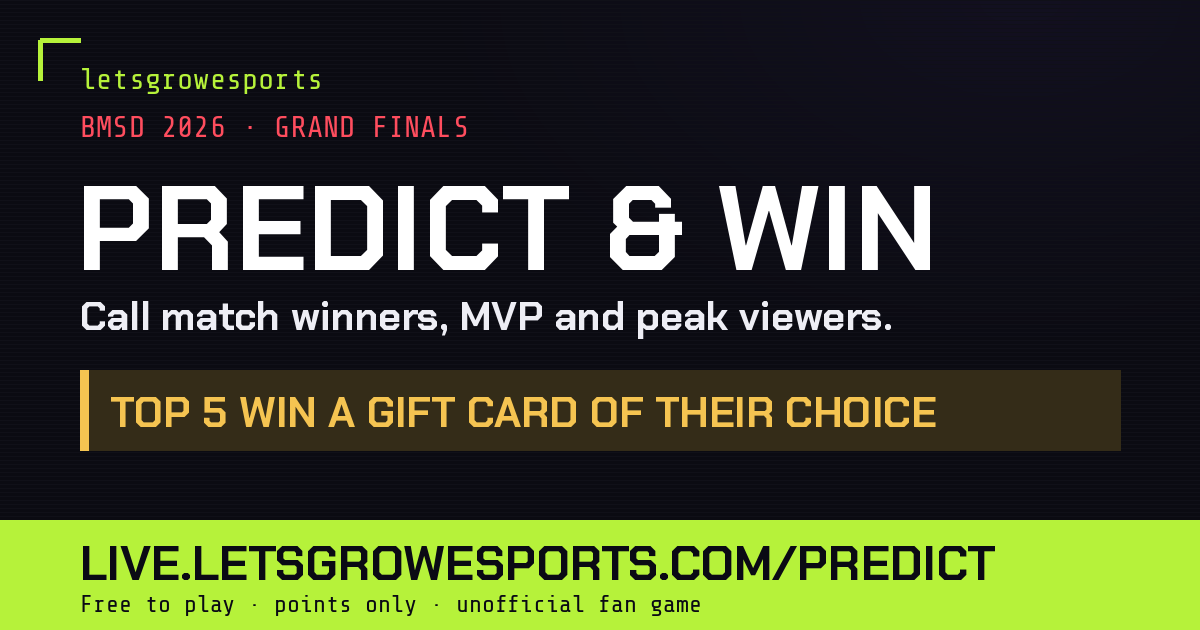
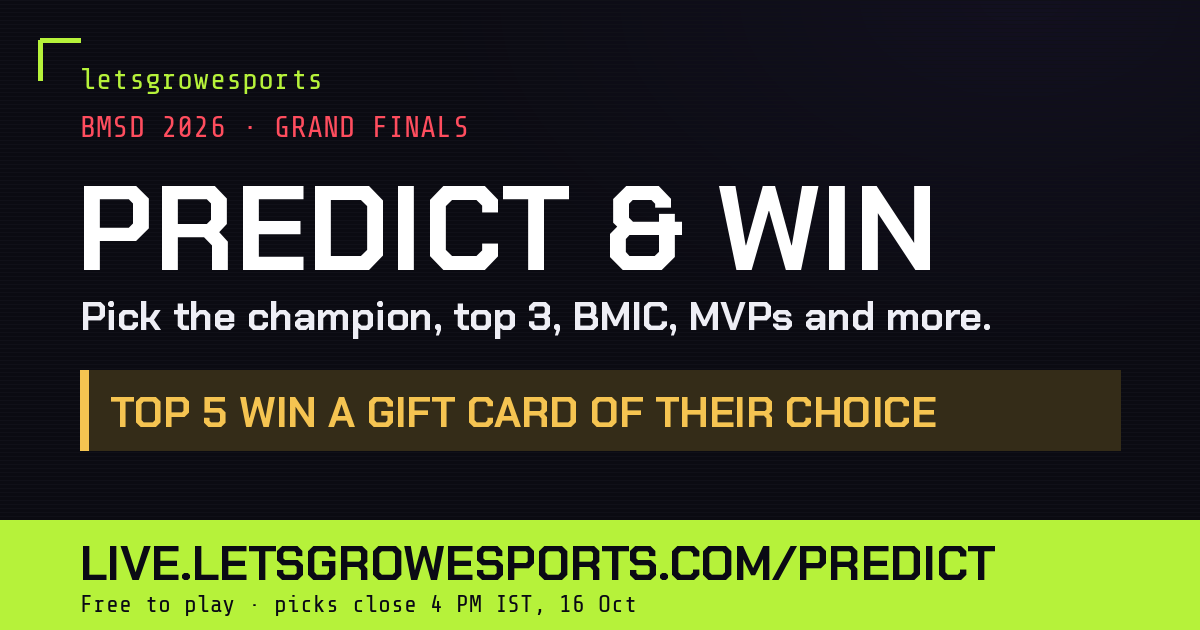
Predict & Win: crowd picks dashboard for players who submitted, leaderboard hidden until the owner turns it on, new link preview text and image
Claude-Session: https://claude.ai/code/session_01BzJY31iHji2UxXymYXT3SW

Changed region(s): [[0.0617, 0.4825, 0.8325, 0.5429], [0.2467, 0.9349, 0.5858, 0.9952]]

diff --git a/docs/previews/predict-and-win-preview.html b/docs/previews/predict-and-win-preview.html
@@ -1,12 +1,12 @@
 <!doctype html>
 <html lang="en"><head><meta charset="utf-8"><meta name="viewport" content="width=device-width, initial-scale=1">
 <title>Predict & Win | BMSD 2026 | letsgrowesports</title>
-<meta name="description" content="Free BGMI prediction game for the BMSD 2026 Grand Finals. Call match winners, MVP and peak viewers. Top 5 win a gift card.">
+<meta name="description" content="Pick the champion, top 3, BMIC qualifiers, MVPs, best IGL and the peak viewership for the BMSD 2026 Grand Finals. Free to play. Top 5 win a gift card.">
 <meta property="og:type" content="website"><meta property="og:site_name" content="letsgrowesports">
-<meta property="og:title" content="BMSD 2026 · Predict & Win"><meta property="og:description" content="Call match winners, MVP and peak viewers for the BMSD 2026 Grand Finals. Free to play. Top 5 win a gift card.">
-<meta property="og:url" content="https://live.letsgrowesports.com/predict"><meta property="og:image" content="https://live.letsgrowesports.com/predict/og.png">
+<meta property="og:title" content="BMSD 2026 · Predict & Win"><meta property="og:description" content="Pick the champion, top 3, BMIC qualifiers, MVPs, best IGL and the peak viewership for the BMSD 2026 Grand Finals. Free to play. Top 5 win a gift card.">
+<meta property="og:url" content="https://live.letsgrowesports.com/predict"><meta property="og:image" content="https://live.letsgrowesports.com/predict/og.png?v=2">
 <meta property="og:image:width" content="1200"><meta property="og:image:height" content="630">
-<meta name="twitter:card" content="summary_large_image"><meta name="twitter:title" content="BMSD 2026 · Predict & Win"><meta name="twitter:image" content="https://live.letsgrowesports.com/predict/og.png">
+<meta name="twitter:card" content="summary_large_image"><meta name="twitter:description" content="Pick the champion, top 3, BMIC qualifiers, MVPs, best IGL and the peak viewership for the BMSD 2026 Grand Finals. Free to play. Top 5 win a gift card."><meta name="twitter:title" content="BMSD 2026 · Predict & Win"><meta name="twitter:image" content="https://live.letsgrowesports.com/predict/og.png?v=2">
 <meta name="theme-color" content="#0b0b12">
 <link rel="preconnect" href="https://fonts.googleapis.com"><link rel="preconnect" href="https://fonts.gstatic.com" crossorigin>
 <link href="https://fonts.googleapis.com/css2?family=Chakra+Petch:wght@500;600;700&family=Share+Tech+Mono&display=swap" rel="stylesheet">
@@ -116,7 +116,7 @@ tr.you td{background:rgba(182,242,58,.08)}tr.pin td{border-top:2px dashed var(--
 .nmx{display:flex;align-items:center;min-width:0}.nmx>span:last-child{overflow:hidden;text-overflow:ellipsis;white-space:nowrap}
 .cbl button{display:flex;align-items:center}.how{font-size:13px;color:var(--muted);margin-top:-4px}.ch{font-size:12px;margin-bottom:2px}
 .rules ul{margin:8px 0 0;padding-left:18px}.rules li{margin:5px 0;font-size:14px;color:var(--ink)}
-.tx{display:flex;gap:8px}.qbadge{height:44px;display:block}
+.tx{display:flex;gap:8px}.cq{padding:12px 0;border-top:1px solid var(--line)}.cq:first-child{border-top:0;padding-top:0}.cqt{font:700 15px 'Chakra Petch',sans-serif;margin:4px 0 8px}.cr.mine{outline:1px solid var(--lime)}.qbadge{height:44px;display:block}
 .sbar{position:fixed;left:50%;transform:translateX(-50%);width:min(948px,calc(100% - 20px));bottom:10px;z-index:65;display:none;align-items:center;justify-content:space-between;gap:10px;padding:10px 12px;background:rgba(18,18,25,.96);border:1px solid var(--lime);box-shadow:0 8px 30px rgba(0,0,0,.6)}
 .sbar .mono{font-size:13px;color:var(--muted)}.sbar .btn[disabled]{background:var(--card2);color:var(--muted);opacity:1}.tx .inp{flex:1;min-width:0}
 @view-transition{navigation:auto}
@@ -148,7 +148,9 @@ tr.you td{background:rgba(182,242,58,.08)}tr.pin td{border-top:2px dashed var(--
  <div class="card" id="qcard"><div class="lbl">// step 2</div><h2 style="margin:4px 0 12px">Make your picks</h2>
   <div class="tabs" id="dtabs"></div><div class="qs" id="qs"></div>
   <div class="sbar" id="sbar"><span id="sbt" class="mono"></span><button class="btn" id="sbb" disabled>Submit my picks</button></div></div>
- <div class="card" id="lbCard"><div class="head"><div><div class="lbl">// leaderboard</div><h2>Top 10</h2></div><button class="btn sm" id="shareLb">Share</button></div>
+ <div class="card" id="crowdCard" style="display:none"><div class="lbl">// what everyone picked</div><h2 style="margin:4px 0 4px">Crowd picks</h2>
+  <div class="muted" style="font-size:13px;margin-bottom:10px">Updates live. The leaderboard and winners are revealed after the finals on Sun 18 Oct.</div><div id="crowd"></div></div>
+ <div class="card" id="lbCard" style="display:none"><div class="head"><div><div class="lbl">// leaderboard</div><h2>Top 10</h2></div><button class="btn sm" id="shareLb">Share</button></div>
   <div class="tabs" id="ltabs"></div>
   <table><thead><tr><th>#</th><th>Player</th><th class="num">Points</th></tr></thead><tbody id="lb"></tbody></table>
   <div class="muted" style="font-size:12px;margin-top:8px">Gold = gift card zone. Tap a name to see their picks.</div></div>
@@ -197,9 +199,8 @@ function nameHtml(p){return p.name&&p.name!==p.handle?`<b>${esc(p.name)}</b> <sp
 function renderJoin(){const c=$('joinCard');
  if(ME){const r=(ME.ranks||{}).all||{},p=ME.player;
   c.innerHTML=`<div class="me"><div class="av">${esc((p.name||p.handle).slice(0,1).toUpperCase())}</div><div class="who"><div class="lbl">// playing as</div><div class="pn">${nameHtml(p)}</div></div>
-   <div class="mono rkbox"><div style="font-size:22px;color:var(--lime)">${r.pts?'#'+r.rank:'-'}</div><div class="muted" style="font-size:12px">${r.pts||0} PTS · ${Object.keys(ME.picks||{}).length} PICKS</div></div>
-   <button class="btn sm" id="shareMe">Share my rank</button></div>`;
-  $('shareMe').onclick=()=>share('me');return}
+   ${B&&B.leaderboard?`<div class="mono rkbox"><div style="font-size:22px;color:var(--lime)">${r.pts?'#'+r.rank:'-'}</div><div class="muted" style="font-size:12px">${r.pts||0} PTS</div></div><button class="btn sm" id="shareMe">Share my rank</button>`:`<div class="mono rkbox" style="font-size:13px;color:${Object.keys(ME.picks||{}).length?'var(--lime)':'var(--muted)'}">${Object.keys(ME.picks||{}).length?'✓ PICKS SUBMITTED':'NOT SUBMITTED YET'}</div>`}</div>`;
+  const sm=$('shareMe');if(sm)sm.onclick=()=>share('me');renderCrowd();return}
  c.innerHTML=`<div class="lbl">// step 1</div><h2 style="margin-top:4px">Enter your Instagram ID</h2>
   <div class="muted" style="font-size:13px;margin-top:4px">If you finish in the top 5, we'll DM you on Instagram. No password needed.<br><b style="color:var(--ink)">Answer every question, then press Submit. You can't change picks after submitting.</b></div>
   <div id="jf"><label class="field"><span>INSTAGRAM ID</span><div class="at"><i>@</i><input class="inp" id="jh" maxlength="80" placeholder="yourhandle" autocapitalize="none" autocorrect="off" spellcheck="false" inputmode="email" required></div></label>
@@ -286,9 +287,18 @@ async function submitAll(){if(!ME){toast('Enter your Instagram ID first (step 1)
  const oq=openQs();if(oq.some(q=>!isDone(q,draft[q.id]))){const f=oq.find(q=>!isDone(q,draft[q.id]));toast('Answer every question first');const el=$('qs').querySelector(`.q[data-id="${f.id}"]`);if(el)el.scrollIntoView({behavior:'smooth',block:'center'});return}
  if(!confirmSubmit())return;const b=$('sbb');b.disabled=true;b.textContent='Submitting...';
  const picks={};oq.forEach(q=>picks[q.id]=draft[q.id]);
- try{await api('submit',{picks});oq.forEach(q=>{ME.picks[q.id]=picks[q.id];delete draft[q.id]});saveDraft();toast('Submitted. Good luck!');renderJoin();await loadBoard();renderQs()}
+ try{await api('submit',{picks});oq.forEach(q=>{ME.picks[q.id]=picks[q.id];delete draft[q.id]});saveDraft();toast('Submitted. Good luck!');await loadMe();await loadBoard();renderQs();renderCrowd();$('crowdCard').scrollIntoView({behavior:'smooth'})}
  catch(e){toast(e.message);await loadMe();await loadBoard()}finally{sbar()}}
 function confirmSubmit(){if(DEMO)return true;try{return window.confirm('Submit your picks? You can\'t change them after.')}catch(e){return true}}
+// ---------- crowd picks (only for players who submitted) ----------
+let crowdSig='';
+function renderCrowd(){const card=$('crowdCard');if(!card||!B)return;const has=ME&&Object.keys(ME.picks||{}).length;card.style.display=has?'':'none';if(!has)return;
+ const sig=JSON.stringify(ME.crowd||{})+JSON.stringify(ME.picks);if(sig===crowdSig)return;crowdSig=sig;
+ $('crowd').innerHTML=B.questions.filter(q=>ME.picks[q.id]!==undefined).map(q=>{const pc=(ME.crowd||{})[q.id]||{},my=ME.picks[q.id],mine=Array.isArray(my)?my:[my];
+  const ent=Object.entries(pc).sort((a,b)=>b[1]-a[1]).slice(0,q.kind==='multi'?Math.max(q.pick,6):5);
+  const tag=q.tag==='BMIC'&&TLOGO.BMIC26?`<img class="qbadge" style="height:30px" src="${TLOGO.BMIC26}" alt="BMIC">`:esc(q.tag);
+  return `<div class="cq"><div class="qt"><span class="tag">${tag}</span></div><div class="cqt">${esc(q.title)}</div>${ent.length?`<div class="crowd">${ent.map(([o,n])=>`<div class="cr ${mine.includes(o)||mine.map(tn0).includes(tn0(o))?'mine':''}"><div class="fill" style="width:${n}%"></div><span class="nmx">${tl(o)}<span>${esc(o)}</span></span><span class="pc">${n}%</span></div>`).join('')}</div>`:'<div class="muted" style="font-size:13px">Results show once 20 players have submitted.</div>'}</div>`}).join('')}
+const tn0=x=>String(x||'').toLowerCase().replace(/[^a-z0-9]/g,'');
 // ---------- leaderboard ----------
 function lbTabs(){const ds=[...new Set(B.questions.filter(q=>q.day).map(q=>String(q.day)))].sort();const t=[['all','Overall'],...ds.map(d=>[d,'Day '+d])];$('ltabs').style.display=t.length>2?'':'none';
  $('ltabs').innerHTML=t.map(([k,l])=>`<button data-k="${k}" class="${k===lbTab?'on':''}">${l}</button>`).join('');
@@ -352,12 +362,12 @@ function header(){
  const nx=B.questions.filter(q=>!q.closed&&!q.void&&q.close_ts>nowS()).sort((a,b)=>a.close_ts-b.close_ts)[0];
  $('nlt').textContent=nx?`${istT(nx.close_ts)} IST · ${left(nx.close_ts-nowS())}`:'ALL LOCKED';
 }
-let lbSig='';async function loadBoard(){try{B=await api('board')}catch(e){return}header();dayTabs();renderQs();sbar();const sg=JSON.stringify(B.boards)+lbTab;if(sg!==lbSig){lbSig=sg;lbTabs();renderLb()}}
+let lbSig='';async function loadBoard(){try{B=await api('board')}catch(e){return}header();dayTabs();renderQs();sbar();$('lbCard').style.display=B.leaderboard?'':'none';const sg=JSON.stringify(B.boards)+lbTab;if(sg!==lbSig){lbSig=sg;lbTabs();renderLb()}}
 function tick(){if(!B)return;B.questions.forEach(q=>{if(!q.closed&&nowS()>=q.close_ts){q.closed=true;if(openCb===q.id)openCb=null;updCard(q.id)}});
  document.querySelectorAll('[data-cl]').forEach(el=>{const q=B.questions.find(x=>x.id===+el.dataset.cl);if(q)el.textContent=closeTxt(q)[0]});header()}
 setTimeout(()=>{const p=$('pwin');if(p)p.remove()},1100);
 (async()=>{if(DEMO)demoInit();await loadBoard();await loadMe();renderLb();setInterval(tick,15000);
- setInterval(()=>{if(!document.hidden&&!openCb)loadBoard()},DEMO?4000:20000);setInterval(()=>{if(!document.hidden&&TOKEN)loadMe().then(renderLb)},60000)})();
+ setInterval(()=>{if(!document.hidden&&!openCb)loadBoard()},DEMO?4000:20000);setInterval(()=>{if(!document.hidden&&TOKEN)loadMe().then(renderLb)},DEMO?5000:20000)})();
 
 // ---------- preview engine (DEMO only: everything below runs in the browser, nothing is saved) ----------
 function demoInit(){const t0=nowS(),d=SEED.days,cl=k=>Date.parse(d[k]+'T'+SEED.close+':00+05:30')/1000,T=SEED.teams;
@@ -392,10 +402,10 @@ function dRank(b){const S={};DB.qs.forEach(q=>S[q.id]=dStats(q));
  const rows=DB.players.filter(p=>!p.hidden).map(p=>{let pts=b==='all'||b===1?(DB.bonus[p.id]||0):0,c=pts?1:0;DB.qs.forEach(q=>{if(b!=='all'&&q.day!==b)return;const x=dPts(q,S[q.id],DB.picks[p.id+':'+q.id]);if(x){pts+=x;c++}});return{id:p.id,handle:p.handle,name:p.name,pts,correct:c,created:p.created}})
   .sort((a,b)=>b.pts-a.pts||b.correct-a.correct||a.created-b.created);rows.forEach((r,i)=>r.rank=i+1);return rows}
 async function demoApi(path,body){await new Promise(r=>setTimeout(r,100));const err=(m,c)=>{throw Object.assign(new Error(m),{code:c||400})};
- if(path==='board'){return{now:nowS(),prize:SEED.prize,days:SEED.days,
+ if(path==='board'){return{now:nowS(),leaderboard:false,prize:SEED.prize,days:SEED.days,
   questions:DB.qs.map(q=>{const s=dStats(q),cl=dClosed(q);let counts=s.inc;if(q.kind==='text'){counts={};if(cl)Object.entries(s.inc).sort((a,b)=>b[1]-a[1]).slice(0,5).forEach(([k,v])=>counts[s.names[k]]=v)}
-   const pct={};if(s.n>=20)for(const k in counts)pct[k]=Math.round(100*counts[k]/s.n);
-   return{id:q.id,kind:q.kind,tag:q.tag,title:q.title,day:q.day,style:q.style,options:q.options,close_ts:q.close_ts,closed:cl,void:q.void,answer:q.answer,pick:q.pick,ranked:!!q.ranked,pct,picked:s.n>=20,worth:dBest(q,s)}}),
+   const pct={};if(cl&&s.n>=20)for(const k in counts)pct[k]=Math.round(100*counts[k]/s.n);
+   return{id:q.id,kind:q.kind,tag:q.tag,title:q.title,day:q.day,style:q.style,options:q.options,close_ts:q.close_ts,closed:cl,void:q.void,answer:q.answer,pick:q.pick,ranked:!!q.ranked,pct,picked:cl&&s.n>=20,worth:dBest(q,s)}}),
   boards:Object.fromEntries(['all','1','2','3'].map(b=>[b,dRank(b==='all'?'all':+b).filter(r=>r.pts>0).slice(0,10).map(({rank,handle,name,pts,correct})=>({rank,handle,name,pts,correct}))]))}}
  if(path==='join'){let h=(body.handle||'').trim();const m=h.match(/instagram\.com\/([^/?#\s]+)/i);if(m)h=m[1];h=h.replace(/^@/,'').toLowerCase();
   if(!/^[a-z0-9._]{1,30}$/.test(h))err('Enter a valid Instagram ID (letters, numbers, . and _ only).');
@@ -404,7 +414,8 @@ async function demoApi(path,body){await new Promise(r=>setTimeout(r,100));const 
   const p={id:DB.players.length+1,handle:h,name:(body.name||'').trim().slice(0,32),created:nowS(),hidden:false};DB.players.push(p);DB.me=p.id;return{token:'demo',player:p}}
  if(path==='me'){if(!DB.me)err('Not joined',401);const p=DB.players[DB.me-1],picks={},pts={};DB.qs.forEach(q=>{const v=DB.picks[p.id+':'+q.id];if(v!==undefined){picks[q.id]=v;if(q.answer)pts[q.id]=dPts(q,dStats(q),v)}});
   const ranks={};['all','1','2','3'].forEach(b=>{const r=dRank(b==='all'?'all':+b).find(r=>r.id===p.id);ranks[b]={rank:r.rank,pts:r.pts,correct:r.correct}});
-  return{player:{handle:p.handle,name:p.name},picks,pts,ranks}}
+  const crowd={};DB.qs.forEach(q=>{if(picks[q.id]===undefined)return;const st=dStats(q),c={};if(st.n>=20){const src=q.kind==='text'?Object.fromEntries(Object.entries(st.inc).map(([k,v])=>[st.names[k],v])):st.inc;for(const k in src)c[k]=Math.round(100*src[k]/st.n)}crowd[q.id]=c});
+  return{player:{handle:p.handle,name:p.name},picks,pts,ranks:{},crowd}}
  if(path==='pick'){if(!DB.me)err('Join first.',401);const q=DB.qs.find(q=>q.id===body.qid);if(!q)err('No such question',404);if(q.void)err('This question was cancelled.',409);if(dClosed(q))err('Picks for this question are closed.',409);if(DB.picks[DB.me+':'+q.id]!==undefined)err("You've already made this pick. Picks can't be changed.",409);
   if(q.kind==='multi'&&(!Array.isArray(body.option)||new Set(body.option).size!==q.pick))err(`Pick exactly ${q.pick} teams.`);
   DB.picks[DB.me+':'+q.id]=body.option;return{ok:true}}

diff --git a/core/predictpage.py b/core/predictpage.py
@@ -143,7 +143,7 @@ tr.you td{background:rgba(182,242,58,.08)}tr.pin td{border-top:2px dashed var(--
 .nmx{display:flex;align-items:center;min-width:0}.nmx>span:last-child{overflow:hidden;text-overflow:ellipsis;white-space:nowrap}
 .cbl button{display:flex;align-items:center}.how{font-size:13px;color:var(--muted);margin-top:-4px}.ch{font-size:12px;margin-bottom:2px}
 .rules ul{margin:8px 0 0;padding-left:18px}.rules li{margin:5px 0;font-size:14px;color:var(--ink)}
-.tx{display:flex;gap:8px}.qbadge{height:44px;display:block}
+.tx{display:flex;gap:8px}.cq{padding:12px 0;border-top:1px solid var(--line)}.cq:first-child{border-top:0;padding-top:0}.cqt{font:700 15px 'Chakra Petch',sans-serif;margin:4px 0 8px}.cr.mine{outline:1px solid var(--lime)}.qbadge{height:44px;display:block}
 .sbar{position:fixed;left:50%;transform:translateX(-50%);width:min(948px,calc(100% - 20px));bottom:10px;z-index:65;display:none;align-items:center;justify-content:space-between;gap:10px;padding:10px 12px;background:rgba(18,18,25,.96);border:1px solid var(--lime);box-shadow:0 8px 30px rgba(0,0,0,.6)}
 .sbar .mono{font-size:13px;color:var(--muted)}.sbar .btn[disabled]{background:var(--card2);color:var(--muted);opacity:1}.tx .inp{flex:1;min-width:0}
 @view-transition{navigation:auto}
@@ -163,12 +163,12 @@ tr.you td{background:rgba(182,242,58,.08)}tr.pin td{border-top:2px dashed var(--
 PAGE = r"""<!doctype html>
 <html lang="en"><head><meta charset="utf-8"><meta name="viewport" content="width=device-width, initial-scale=1">
 <title>Predict & Win | BMSD 2026 | letsgrowesports</title>
-<meta name="description" content="Free BGMI prediction game for the BMSD 2026 Grand Finals. Call match winners, MVP and peak viewers. Top 5 win a gift card.">
+<meta name="description" content="Pick the champion, top 3, BMIC qualifiers, MVPs, best IGL and the peak viewership for the BMSD 2026 Grand Finals. Free to play. Top 5 win a gift card.">
 <meta property="og:type" content="website"><meta property="og:site_name" content="letsgrowesports">
-<meta property="og:title" content="BMSD 2026 · Predict & Win"><meta property="og:description" content="Call match winners, MVP and peak viewers for the BMSD 2026 Grand Finals. Free to play. Top 5 win a gift card.">
-<meta property="og:url" content="__PUBLIC__/predict"><meta property="og:image" content="__PUBLIC__/predict/og.png">
+<meta property="og:title" content="BMSD 2026 · Predict & Win"><meta property="og:description" content="Pick the champion, top 3, BMIC qualifiers, MVPs, best IGL and the peak viewership for the BMSD 2026 Grand Finals. Free to play. Top 5 win a gift card.">
+<meta property="og:url" content="__PUBLIC__/predict"><meta property="og:image" content="__PUBLIC__/predict/og.png?v=2">
 <meta property="og:image:width" content="1200"><meta property="og:image:height" content="630">
-<meta name="twitter:card" content="summary_large_image"><meta name="twitter:title" content="BMSD 2026 · Predict & Win"><meta name="twitter:image" content="__PUBLIC__/predict/og.png">
+<meta name="twitter:card" content="summary_large_image"><meta name="twitter:description" content="Pick the champion, top 3, BMIC qualifiers, MVPs, best IGL and the peak viewership for the BMSD 2026 Grand Finals. Free to play. Top 5 win a gift card."><meta name="twitter:title" content="BMSD 2026 · Predict & Win"><meta name="twitter:image" content="__PUBLIC__/predict/og.png?v=2">
 <meta name="theme-color" content="#0b0b12">
 <link rel="preconnect" href="https://fonts.googleapis.com"><link rel="preconnect" href="https://fonts.gstatic.com" crossorigin>
 <link href="https://fonts.googleapis.com/css2?family=Chakra+Petch:wght@500;600;700&family=Share+Tech+Mono&display=swap" rel="stylesheet">
@@ -189,7 +189,9 @@ PAGE = r"""<!doctype html>
  <div class="card" id="qcard"><div class="lbl">// step 2</div><h2 style="margin:4px 0 12px">Make your picks</h2>
   <div class="tabs" id="dtabs"></div><div class="qs" id="qs"></div>
   <div class="sbar" id="sbar"><span id="sbt" class="mono"></span><button class="btn" id="sbb" disabled>Submit my picks</button></div></div>
- <div class="card" id="lbCard"><div class="head"><div><div class="lbl">// leaderboard</div><h2>Top 10</h2></div><button class="btn sm" id="shareLb">Share</button></div>
+ <div class="card" id="crowdCard" style="display:none"><div class="lbl">// what everyone picked</div><h2 style="margin:4px 0 4px">Crowd picks</h2>
+  <div class="muted" style="font-size:13px;margin-bottom:10px">Updates live. The leaderboard and winners are revealed after the finals on Sun 18 Oct.</div><div id="crowd"></div></div>
+ <div class="card" id="lbCard" style="display:none"><div class="head"><div><div class="lbl">// leaderboard</div><h2>Top 10</h2></div><button class="btn sm" id="shareLb">Share</button></div>
   <div class="tabs" id="ltabs"></div>
   <table><thead><tr><th>#</th><th>Player</th><th class="num">Points</th></tr></thead><tbody id="lb"></tbody></table>
   <div class="muted" style="font-size:12px;margin-top:8px">Gold = gift card zone. Tap a name to see their picks.</div></div>
@@ -238,9 +240,8 @@ function nameHtml(p){return p.name&&p.name!==p.handle?`<b>${esc(p.name)}</b> <sp
 function renderJoin(){const c=$('joinCard');
  if(ME){const r=(ME.ranks||{}).all||{},p=ME.player;
   c.innerHTML=`<div class="me"><div class="av">${esc((p.name||p.handle).slice(0,1).toUpperCase())}</div><div class="who"><div class="lbl">// playing as</div><div class="pn">${nameHtml(p)}</div></div>
-   <div class="mono rkbox"><div style="font-size:22px;color:var(--lime)">${r.pts?'#'+r.rank:'-'}</div><div class="muted" style="font-size:12px">${r.pts||0} PTS · ${Object.keys(ME.picks||{}).length} PICKS</div></div>
-   <button class="btn sm" id="shareMe">Share my rank</button></div>`;
-  $('shareMe').onclick=()=>share('me');return}
+   ${B&&B.leaderboard?`<div class="mono rkbox"><div style="font-size:22px;color:var(--lime)">${r.pts?'#'+r.rank:'-'}</div><div class="muted" style="font-size:12px">${r.pts||0} PTS</div></div><button class="btn sm" id="shareMe">Share my rank</button>`:`<div class="mono rkbox" style="font-size:13px;color:${Object.keys(ME.picks||{}).length?'var(--lime)':'var(--muted)'}">${Object.keys(ME.picks||{}).length?'✓ PICKS SUBMITTED':'NOT SUBMITTED YET'}</div>`}</div>`;
+  const sm=$('shareMe');if(sm)sm.onclick=()=>share('me');renderCrowd();return}
  c.innerHTML=`<div class="lbl">// step 1</div><h2 style="margin-top:4px">Enter your Instagram ID</h2>
   <div class="muted" style="font-size:13px;margin-top:4px">If you finish in the top 5, we'll DM you on Instagram. No password needed.<br><b style="color:var(--ink)">Answer every question, then press Submit. You can't change picks after submitting.</b></div>
   <div id="jf"><label class="field"><span>INSTAGRAM ID</span><div class="at"><i>@</i><input class="inp" id="jh" maxlength="80" placeholder="yourhandle" autocapitalize="none" autocorrect="off" spellcheck="false" inputmode="email" required></div></label>
@@ -327,9 +328,18 @@ async function submitAll(){if(!ME){toast('Enter your Instagram ID first (step 1)
  const oq=openQs();if(oq.some(q=>!isDone(q,draft[q.id]))){const f=oq.find(q=>!isDone(q,draft[q.id]));toast('Answer every question first');const el=$('qs').querySelector(`.q[data-id="${f.id}"]`);if(el)el.scrollIntoView({behavior:'smooth',block:'center'});return}
  if(!confirmSubmit())return;const b=$('sbb');b.disabled=true;b.textContent='Submitting...';
  const picks={};oq.forEach(q=>picks[q.id]=draft[q.id]);
- try{await api('submit',{picks});oq.forEach(q=>{ME.picks[q.id]=picks[q.id];delete draft[q.id]});saveDraft();toast('Submitted. Good luck!');renderJoin();await loadBoard();renderQs()}
+ try{await api('submit',{picks});oq.forEach(q=>{ME.picks[q.id]=picks[q.id];delete draft[q.id]});saveDraft();toast('Submitted. Good luck!');await loadMe();await loadBoard();renderQs();renderCrowd();$('crowdCard').scrollIntoView({behavior:'smooth'})}
  catch(e){toast(e.message);await loadMe();await loadBoard()}finally{sbar()}}
 function confirmSubmit(){if(DEMO)return true;try{return window.confirm('Submit your picks? You can\'t change them after.')}catch(e){return true}}
+// ---------- crowd picks (only for players who submitted) ----------
+let crowdSig='';
+function renderCrowd(){const card=$('crowdCard');if(!card||!B)return;const has=ME&&Object.keys(ME.picks||{}).length;card.style.display=has?'':'none';if(!has)return;
+ const sig=JSON.stringify(ME.crowd||{})+JSON.stringify(ME.picks);if(sig===crowdSig)return;crowdSig=sig;
+ $('crowd').innerHTML=B.questions.filter(q=>ME.picks[q.id]!==undefined).map(q=>{const pc=(ME.crowd||{})[q.id]||{},my=ME.picks[q.id],mine=Array.isArray(my)?my:[my];
+  const ent=Object.entries(pc).sort((a,b)=>b[1]-a[1]).slice(0,q.kind==='multi'?Math.max(q.pick,6):5);
+  const tag=q.tag==='BMIC'&&TLOGO.BMIC26?`<img class="qbadge" style="height:30px" src="${TLOGO.BMIC26}" alt="BMIC">`:esc(q.tag);
+  return `<div class="cq"><div class="qt"><span class="tag">${tag}</span></div><div class="cqt">${esc(q.title)}</div>${ent.length?`<div class="crowd">${ent.map(([o,n])=>`<div class="cr ${mine.includes(o)||mine.map(tn0).includes(tn0(o))?'mine':''}"><div class="fill" style="width:${n}%"></div><span class="nmx">${tl(o)}<span>${esc(o)}</span></span><span class="pc">${n}%</span></div>`).join('')}</div>`:'<div class="muted" style="font-size:13px">Results show once 20 players have submitted.</div>'}</div>`}).join('')}
+const tn0=x=>String(x||'').toLowerCase().replace(/[^a-z0-9]/g,'');
 // ---------- leaderboard ----------
 function lbTabs(){const ds=[...new Set(B.questions.filter(q=>q.day).map(q=>String(q.day)))].sort();const t=[['all','Overall'],...ds.map(d=>[d,'Day '+d])];$('ltabs').style.display=t.length>2?'':'none';
  $('ltabs').innerHTML=t.map(([k,l])=>`<button data-k="${k}" class="${k===lbTab?'on':''}">${l}</button>`).join('');
@@ -393,12 +403,12 @@ function header(){
  const nx=B.questions.filter(q=>!q.closed&&!q.void&&q.close_ts>nowS()).sort((a,b)=>a.close_ts-b.close_ts)[0];
  $('nlt').textContent=nx?`${istT(nx.close_ts)} IST · ${left(nx.close_ts-nowS())}`:'ALL LOCKED';
 }
-let lbSig='';async function loadBoard(){try{B=await api('board')}catch(e){return}header();dayTabs();renderQs();sbar();const sg=JSON.stringify(B.boards)+lbTab;if(sg!==lbSig){lbSig=sg;lbTabs();renderLb()}}
+let lbSig='';async function loadBoard(){try{B=await api('board')}catch(e){return}header();dayTabs();renderQs();sbar();$('lbCard').style.display=B.leaderboard?'':'none';const sg=JSON.stringify(B.boards)+lbTab;if(sg!==lbSig){lbSig=sg;lbTabs();renderLb()}}
 function tick(){if(!B)return;B.questions.forEach(q=>{if(!q.closed&&nowS()>=q.close_ts){q.closed=true;if(openCb===q.id)openCb=null;updCard(q.id)}});
  document.querySelectorAll('[data-cl]').forEach(el=>{const q=B.questions.find(x=>x.id===+el.dataset.cl);if(q)el.textContent=closeTxt(q)[0]});header()}
 setTimeout(()=>{const p=$('pwin');if(p)p.remove()},1100);
 (async()=>{if(DEMO)demoInit();await loadBoard();await loadMe();renderLb();setInterval(tick,15000);
- setInterval(()=>{if(!document.hidden&&!openCb)loadBoard()},DEMO?4000:20000);setInterval(()=>{if(!document.hidden&&TOKEN)loadMe().then(renderLb)},60000)})();
+ setInterval(()=>{if(!document.hidden&&!openCb)loadBoard()},DEMO?4000:20000);setInterval(()=>{if(!document.hidden&&TOKEN)loadMe().then(renderLb)},DEMO?5000:20000)})();
 
 // ---------- preview engine (DEMO only: everything below runs in the browser, nothing is saved) ----------
 function demoInit(){const t0=nowS(),d=SEED.days,cl=k=>Date.parse(d[k]+'T'+SEED.close+':00+05:30')/1000,T=SEED.teams;
@@ -433,10 +443,10 @@ function dRank(b){const S={};DB.qs.forEach(q=>S[q.id]=dStats(q));
  const rows=DB.players.filter(p=>!p.hidden).map(p=>{let pts=b==='all'||b===1?(DB.bonus[p.id]||0):0,c=pts?1:0;DB.qs.forEach(q=>{if(b!=='all'&&q.day!==b)return;const x=dPts(q,S[q.id],DB.picks[p.id+':'+q.id]);if(x){pts+=x;c++}});return{id:p.id,handle:p.handle,name:p.name,pts,correct:c,created:p.created}})
   .sort((a,b)=>b.pts-a.pts||b.correct-a.correct||a.created-b.created);rows.forEach((r,i)=>r.rank=i+1);return rows}
 async function demoApi(path,body){await new Promise(r=>setTimeout(r,100));const err=(m,c)=>{throw Object.assign(new Error(m),{code:c||400})};
- if(path==='board'){return{now:nowS(),prize:SEED.prize,days:SEED.days,
+ if(path==='board'){return{now:nowS(),leaderboard:false,prize:SEED.prize,days:SEED.days,
   questions:DB.qs.map(q=>{const s=dStats(q),cl=dClosed(q);let counts=s.inc;if(q.kind==='text'){counts={};if(cl)Object.entries(s.inc).sort((a,b)=>b[1]-a[1]).slice(0,5).forEach(([k,v])=>counts[s.names[k]]=v)}
-   const pct={};if(s.n>=20)for(const k in counts)pct[k]=Math.round(100*counts[k]/s.n);
-   return{id:q.id,kind:q.kind,tag:q.tag,title:q.title,day:q.day,style:q.style,options:q.options,close_ts:q.close_ts,closed:cl,void:q.void,answer:q.answer,pick:q.pick,ranked:!!q.ranked,pct,picked:s.n>=20,worth:dBest(q,s)}}),
+   const pct={};if(cl&&s.n>=20)for(const k in counts)pct[k]=Math.round(100*counts[k]/s.n);
+   return{id:q.id,kind:q.kind,tag:q.tag,title:q.title,day:q.day,style:q.style,options:q.options,close_ts:q.close_ts,closed:cl,void:q.void,answer:q.answer,pick:q.pick,ranked:!!q.ranked,pct,picked:cl&&s.n>=20,worth:dBest(q,s)}}),
   boards:Object.fromEntries(['all','1','2','3'].map(b=>[b,dRank(b==='all'?'all':+b).filter(r=>r.pts>0).slice(0,10).map(({rank,handle,name,pts,correct})=>({rank,handle,name,pts,correct}))]))}}
  if(path==='join'){let h=(body.handle||'').trim();const m=h.match(/instagram\.com\/([^/?#\s]+)/i);if(m)h=m[1];h=h.replace(/^@/,'').toLowerCase();
   if(!/^[a-z0-9._]{1,30}$/.test(h))err('Enter a valid Instagram ID (letters, numbers, . and _ only).');
@@ -445,7 +455,8 @@ async function demoApi(path,body){await new Promise(r=>setTimeout(r,100));const 
   const p={id:DB.players.length+1,handle:h,name:(body.name||'').trim().slice(0,32),created:nowS(),hidden:false};DB.players.push(p);DB.me=p.id;return{token:'demo',player:p}}
  if(path==='me'){if(!DB.me)err('Not joined',401);const p=DB.players[DB.me-1],picks={},pts={};DB.qs.forEach(q=>{const v=DB.picks[p.id+':'+q.id];if(v!==undefined){picks[q.id]=v;if(q.answer)pts[q.id]=dPts(q,dStats(q),v)}});
   const ranks={};['all','1','2','3'].forEach(b=>{const r=dRank(b==='all'?'all':+b).find(r=>r.id===p.id);ranks[b]={rank:r.rank,pts:r.pts,correct:r.correct}});
-  return{player:{handle:p.handle,name:p.name},picks,pts,ranks}}
+  const crowd={};DB.qs.forEach(q=>{if(picks[q.id]===undefined)return;const st=dStats(q),c={};if(st.n>=20){const src=q.kind==='text'?Object.fromEntries(Object.entries(st.inc).map(([k,v])=>[st.names[k],v])):st.inc;for(const k in src)c[k]=Math.round(100*src[k]/st.n)}crowd[q.id]=c});
+  return{player:{handle:p.handle,name:p.name},picks,pts,ranks:{},crowd}}
  if(path==='pick'){if(!DB.me)err('Join first.',401);const q=DB.qs.find(q=>q.id===body.qid);if(!q)err('No such question',404);if(q.void)err('This question was cancelled.',409);if(dClosed(q))err('Picks for this question are closed.',409);if(DB.picks[DB.me+':'+q.id]!==undefined)err("You've already made this pick. Picks can't be changed.",409);
   if(q.kind==='multi'&&(!Array.isArray(body.option)||new Set(body.option).size!==q.pick))err(`Pick exactly ${q.pick} teams.`);
   DB.picks[DB.me+':'+q.id]=body.option;return{ok:true}}
@@ -496,6 +507,7 @@ td{font-size:13px;vertical-align:top}.cnt{font:11px "Share Tech Mono",monospace;
   <div class="row2"><label class="field"><span>DAY 1</span><input class="inp" id="sD1" type="date"></label><label class="field"><span>DAY 2</span><input class="inp" id="sD2" type="date"></label><label class="field"><span>DAY 3</span><input class="inp" id="sD3" type="date"></label></div>
   <div class="row2"><label class="field"><span>DEFAULT CLOSE (IST)</span><input class="inp" id="sClose" type="time"></label><label class="field"><span>MATCHES / DAY</span><input class="inp" id="sMatches" type="number" min="1" max="12"></label></div>
   <label class="field"><span>PRIZE TEXT (shown on the page)</span><input class="inp" id="sPrize"></label>
+  <label class="chk"><input type="checkbox" id="sLb"> <span>Show the public leaderboard (turn on after the finals)</span></label>
   <div style="margin-top:10px"><button class="btn" data-a="settings">Save settings</button></div></div>
 </div>
 <div class="card"><div class="head"><div><div class="lbl">// questions</div><h2 id="qh">Questions</h2></div><button class="btn ghost sm" data-a="reload">Refresh</button></div><div style="overflow-x:auto"><table><thead><tr><th>#</th><th>Question</th><th>Closes (IST)</th><th>Status</th><th>Picks</th><th>Actions</th></tr></thead><tbody id="qt"></tbody></table></div></div>
@@ -513,7 +525,7 @@ const ist=ts=>new Date(ts*1000).toLocaleString('en-IN',{timeZone:'Asia/Kolkata',
 let S={},Q=[],P=[];
 async function load(){const j=await api('state');S=j.settings;Q=j.questions;P=j.players;
  $('sTeams').value=S.teams.join('\n');$('sMvp').value=S.mvp.join('\n');$('sBuckets').value=S.buckets.join(', ');$('sD1').value=S.days['1'];$('sD2').value=S.days['2'];$('sD3').value=S.days['3'];
- $('sClose').value=S.close;$('sMatches').value=S.matches;$('sPrize').value=S.prize;
+ $('sClose').value=S.close;$('sMatches').value=S.matches;$('sPrize').value=S.prize;$('sLb').checked=!!S.show_leaderboard;
  if(!$('mdClose').value)$('mdClose').value=S.days[$('mdDay').value]+'T'+S.close;if(!$('cqC').value)$('cqC').value=S.days['1']+'T'+S.close;
  const now=Date.now()/1000;$('qh').textContent=`Questions (${Q.length})`;
  $('qt').innerHTML=Q.map(q=>{const cl=q.locked||now>=q.close_ts,st=q.void?'<span class="no">VOID</span>':q.answer&&q.answer.length?`<span class="ok">SETTLED: ${esc(Array.isArray(q.answer)?q.answer.join(', '):q.answer)}</span>`:cl?'<span class="no">LOCKED</span>':'<span class="ok">OPEN</span>';
@@ -542,7 +554,7 @@ document.addEventListener('click',async e=>{const b=e.target.closest('button');i
  if(a==='record'){await api('add',{type:'record',close_ts:toTs($('mdClose').value)});toast('Record question added')}
  if(a==='custom'){await api('add',{type:'custom',title:$('cqT').value,tag:$('cqTag').value,day:+$('cqD').value,style:$('cqS').value,options:$('cqO').value.split('\n'),close_ts:toTs($('cqC').value)});toast('Question added');$('cqT').value='';$('cqO').value=''}
  if(a==='settings'){await api('settings',{teams:$('sTeams').value.split('\n').map(s=>s.trim()).filter(Boolean),mvp:$('sMvp').value.split('\n').map(s=>s.trim()).filter(Boolean),
-  buckets:$('sBuckets').value.split(',').map(s=>parseInt(s)).filter(n=>n>0),days:{'1':$('sD1').value,'2':$('sD2').value,'3':$('sD3').value},close:$('sClose').value,matches:+$('sMatches').value,prize:$('sPrize').value});toast('Settings saved')}
+  buckets:$('sBuckets').value.split(',').map(s=>parseInt(s)).filter(n=>n>0),days:{'1':$('sD1').value,'2':$('sD2').value,'3':$('sD3').value},close:$('sClose').value,matches:+$('sMatches').value,prize:$('sPrize').value,show_leaderboard:$('sLb').checked});toast('Settings saved')}
  if(q){if(q==='delete'&&!confirm('Delete this question and all its picks?'))return;
   if(q==='answer'){const el=document.querySelector(`[data-ans="${id}"]`);const v=el.multiple?[...el.selectedOptions].map(o=>o.value):el.value;if(!confirm('Settle with: '+(Array.isArray(v)?v.join(', '):v)+' ?'))return;await api('q/'+id,{action:'answer',value:v});toast('Settled')}
   else if(q==='tracker'){const j=await api('q/'+id+'/tracker',{});toast('Settled from tracker: '+j.answer)}

diff --git a/core/predict.py b/core/predict.py
@@ -32,6 +32,7 @@ DEFAULTS = {
     "maps": {"1": ["Rondo", "Erangel", "Erangel", "Erangel", "Miramar", "Miramar"]},   # per day; other days reuse Day 1
     "match_questions": False,                                     # per-match chicken dinner questions (off)
     "prize": "Top 5 on the overall leaderboard win a gift card of their choice.",
+    "show_leaderboard": False,                                    # owner turns this on after the finals
     "record": 730000,                                             # BMPS 2026 peak, for the yes/no question
 }
 
@@ -729,15 +730,17 @@ def board(now: float = None) -> dict:
         out_q.append({"id": q["id"], "kind": q["kind"], "tag": q["tag"], "title": q["title"], "day": q["day"],
                       "style": q["style"], "options": q["options"], "close_ts": q["close_ts"], "closed": closed,
                       "void": bool(q["void"]), "answer": ans_list(q) if q["kind"] in ("multi", "text") else q["answer"],
-                      "pick": q["meta"].get("pick"), "ranked": bool(q["meta"].get("ranked")), "pct": _pct(_public_counts(q, s, closed), s.get("n", 0)),
-                      "picked": s.get("n", 0) >= MIN_CROWD, "worth": best})
+                      "pick": q["meta"].get("pick"), "ranked": bool(q["meta"].get("ranked")), "pct": _pct(_public_counts(q, s, closed), s.get("n", 0)) if closed else {},
+                      "picked": closed and s.get("n", 0) >= MIN_CROWD, "worth": best})
     out_q.sort(key=lambda q: (q["day"] != 0, q["day"], next(x["sort"] for x in qmap.values() if x["id"] == q["id"]), q["id"]))
     boards = {}
-    for b in ("all", 1, 2, 3):
+    show_lb = bool(settings().get("show_leaderboard"))
+    for b in ("all", 1, 2, 3) if show_lb else ():
         boards[str(b)] = [{k: r[k] for k in ("rank", "handle", "name", "pts", "correct")}
                           for r in _ranked(players, sc, b) if r["pts"] > 0][:10]
     s = settings()
-    out = {"now": now, "questions": out_q, "boards": boards, "prize": s["prize"], "days": s["days"]}
+    out = {"now": now, "questions": out_q, "boards": boards, "leaderboard": show_lb, "prize": s["prize"],
+           "days": s["days"]}
     _cache["board"] = (now, out)
     return out
 
@@ -759,7 +762,9 @@ def me(token: str) -> dict:
     mypts = {str(r["qid"]): points_for(qs[r["qid"]], st.get(r["qid"]), r["option"]) for r in rows
              if r["qid"] in qs and qs[r["qid"]]["answer"]}
     return {"player": {"handle": p["handle"], "name": p["name"], "hidden": bool(p["hidden"])},
-            "picks": picks, "pts": mypts, "ranks": ranks}
+            "picks": picks, "pts": mypts, "ranks": ranks if settings().get("show_leaderboard") else {},
+            "crowd": {str(qid): _pct(_public_counts(qs[qid], st.get(qid), True), (st.get(qid) or {}).get("n", 0))
+                      for qid in (r["qid"] for r in rows) if qid in qs}}
 
 
 def profile(handle: str, now: float = None) -> dict:

diff --git a/tests/test_predict.py b/tests/test_predict.py
@@ -29,6 +29,7 @@ class PredictTests(unittest.TestCase):
     def setUp(self):
         predict._db()
         reset()
+        predict.save_settings(show_leaderboard=True)
         self.web = eventweb.app.test_client()
 
     def join(self, handle, name="Player", ip="1.1.1.1"):
@@ -242,6 +243,11 @@ class PredictTests(unittest.TestCase):
         try:
             predict._bust()
             q = self.web.get("/predict/api/board?x=1").get_json()["questions"][0]
+            self.assertEqual(q["pct"], {})                   # open question: only players who answered see it
+            me = self.web.post("/predict/api/me", json={}, headers={"X-PW-Token": a}).get_json()
+            self.assertEqual(me["crowd"][str(qid)], {"A": 67, "B": 33})
+            predict.update_question(qid, "lock")
+            q = self.web.get("/predict/api/board?x=2").get_json()["questions"][0]
             self.assertEqual(q["pct"], {"A": 67, "B": 33})
         finally:
             predict.MIN_CROWD = 20
@@ -271,6 +277,12 @@ class PredictTests(unittest.TestCase):
         r = self.web.post("/predict/api/submit", json={"picks": {str(q1): "B", str(q2): ["A", "C"]}}, headers=h)
         self.assertEqual(r.status_code, 409)                    # nothing left; picks are final
         self.assertEqual(self.web.post("/predict/api/pick", json={"qid": q1, "option": "B"}, headers=h).status_code, 404)
+
+    def test_leaderboard_hidden_until_owner_turns_it_on(self):
+        predict.save_settings(show_leaderboard=False)
+        j = self.web.get("/predict/api/board?lb=1").get_json()
+        self.assertFalse(j["leaderboard"])
+        self.assertEqual(j["boards"], {})
 
     def test_display_name_optional(self):
         r = self.web.post("/predict/api/join", json={"handle": "noname", "name": "", "consent": True},
